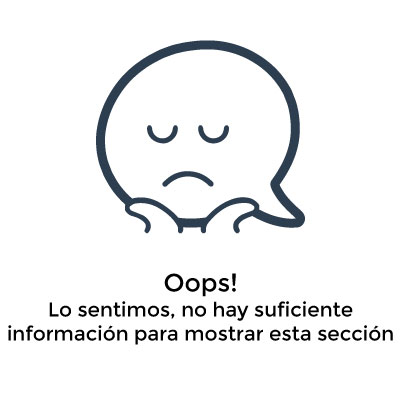
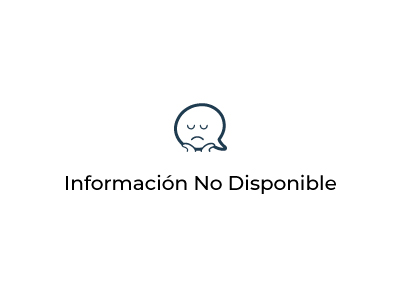
mejoras varias

Changed region(s): [[0.0, 0.09, 0.99, 0.87]]

diff --git a/reddebate/debate/templates/deb_cerrado.html b/reddebate/debate/templates/deb_cerrado.html
@@ -102,32 +102,38 @@
     </div>
     <div id="stats_div" >
        <img class="hidden" id="chartImg" />
+       {% if stats.total_position_num > 0 %}
        <h3>Estadísticas</h3>
        {% if stats.positions_by_day|length > 1 %}
           <div id="chart_div" style="width: 100%; height: 200px"></div>
        {% else %}
-          No se han registrado participaciones suficientes
+       <div class="no-data">
+         <i class="fa fa fa-frown-o" aria-hidden="true"></i><br>
+         Información no disponible
+       </div>
        {% endif %}
        <div class="row">
           <div class="col-sm-4">
-             {% if stats.total_position_num > 0 %}
-                <div id="piechart_postura"></div>
-             {% else %}
-                No se han registrado posturas
-             {% endif %}
+            <div id="piechart_postura"></div>
           </div>
           <div class="col-sm-4">
              {% if stats.total_arg_num > 0 %}
                 <div id="piechart_argumento"></div>
              {% else %}
-                No se han registrado argumentos
+             <div class="no-data">
+               <i class="fa fa fa-frown-o" aria-hidden="true"></i><br>
+               Información no disponible
+             </div>
              {% endif %}
           </div>
           <div class="col-sm-4">
              {% if stats.total_change_num > 0 %}
                 <div id="piechart_cambioPostura"></div>
              {% else %}
-                No se han registrado cambios de postura
+             <div class="no-data">
+               <i class="fa fa fa-frown-o" aria-hidden="true"></i><br>
+               Información no disponible
+             </div>
              {% endif %}
           </div>
        </div>
@@ -137,7 +143,10 @@
              {% if stats.total_change_num > 0 %}
                 <div id="chart_razonCambio"></div>
              {% else %}
-                No se han registrado cambios de postura
+             <div class="no-data">
+               <i class="fa fa fa-frown-o" aria-hidden="true"></i><br>
+               Información no disponible
+             </div>
              {% endif %}
           </div>
           <div class="col-sm-6">
@@ -204,6 +213,12 @@
              </div>
           </div>
        </div>
+       {% else %}
+       <div class="no-data">
+         <i class="fa fa fa-frown-o" aria-hidden="true"></i><br>
+         No hay registro de actividad en este debate
+       </div>
+       {% endif %}
     </div>
 </div> <!-- container debate -->
 </html>

diff --git a/reddebate/debate/templates/deb_privado.html b/reddebate/debate/templates/deb_privado.html
@@ -43,7 +43,10 @@
         {% if stats.positions_by_day|length > 1 %}
         <div id="chart_div" style="width: 100%; height: 200px"></div>
         {% else %}
-        <img class="data-img" src="{% static 'img/no_data_found_large.jpg' %}"/>
+        <div class="no-data">
+          <i class="fa fa fa-frown-o" aria-hidden="true"></i><br>
+          Información no disponible
+        </div>
         {% endif %}
       </div>
     </div>
@@ -80,14 +83,20 @@
        {% if stats.total_arg_num > 0 %}
         <div id="piechart_argumento"></div>
        {% else %}
-       <img class="data-img" src="{% static 'img/no_data_found.jpg' %}"/>
+       <div class="no-data">
+         <i class="fa fa fa-frown-o" aria-hidden="true"></i><br>
+         Información no disponible
+       </div>
        {% endif %}
        </div>
        <div class="col-sm-4">
        {% if stats.total_change_num > 0 %}
        <div id="piechart_cambioPostura"></div>
        {% else %}
-       <img class="data-img" src="{% static 'img/no_data_found.jpg' %}"/>
+       <div class="no-data">
+         <i class="fa fa fa-frown-o" aria-hidden="true"></i><br>
+         Información no disponible
+       </div>
        {% endif %}
        </div>
     </div>
@@ -97,12 +106,18 @@
         {% if stats.total_change_num > 0 %}
         <div id="chart_razonCambio"></div>
         {% else %}
-        <img class="data-img" src="{% static 'img/no_data_found.jpg' %}"/>
+        <div class="no-data">
+          <i class="fa fa fa-frown-o" aria-hidden="true"></i><br>
+          Información no disponible
+        </div>
         {% endif %}
       </div>
       <div class="col-sm-6">
         {% ifequal stats.best_argument 0 %}
-          <img class="data-img" src="{% static 'img/no_data_found.jpg' %}"/>
+        <div class="no-data">
+          <i class="fa fa fa-frown-o" aria-hidden="true"></i><br>
+          Información no disponible
+        </div>
         {% else %}
         <div class="datagrid1 stats_arg">
           <table id="table_best_arg{{stats.best_argument.position}}">
@@ -142,7 +157,10 @@
     </div>
     <br><br>
     {% else %}
-      <img class="data-img" src="{% static 'img/no_data_found.jpg' %}"/>
+    <div class="no-data">
+      <i class="fa fa fa-frown-o" aria-hidden="true"></i><br>
+      Información no disponible
+    </div>
     {% endif %}
   </div>
 </div>

diff --git a/reddebate/debate/templates/deb_creador.html b/reddebate/debate/templates/deb_creador.html
@@ -138,7 +138,12 @@
         {% if stats.positions_by_day|length > 1 %}
         <div id="chart_div" style="width: 100%; height: 200px"></div>
         {% else %}
-        <img class="data-img" src="{% static 'img/no_data_found_large.jpg' %}"/>
+        <div class="no-data">
+          <div class="no-data">
+            <i class="fa fa fa-frown-o" aria-hidden="true"></i><br>
+            Información no disponible
+          </div>
+        </div>
         {% endif %}
       </div>
     </div>
@@ -152,14 +157,20 @@
         {% if stats.total_arg_num > 0 %}
         <div id="piechart_argumento"></div>
         {% else %}
-        <img class="data-img" src="{% static 'img/no_data_found.jpg' %}"/>
+        <div class="no-data">
+          <i class="fa fa fa-frown-o" aria-hidden="true"></i><br>
+          Información no disponible
+        </div>
         {% endif %}
      </div>
      <div class="col-sm-4">
         {% if stats.total_change_num > 0 %}
         <div id="piechart_cambioPostura"></div>
         {% else %}
-        <img class="data-img" src="{% static 'img/no_data_found.jpg' %}"/>
+        <div class="no-data">
+          <i class="fa fa fa-frown-o" aria-hidden="true"></i><br>
+          Información no disponible
+        </div>
         {% endif %}
      </div>
      {% endif %}

diff --git a/reddebate/static/css/style.css b/reddebate/static/css/style.css
@@ -9,7 +9,7 @@
 body{
   text-align: justify;
   background-color: #f7f7f7;
-
+  font-family: "Montserrat", "Helvetica Neue", Helvetica, Arial, sans-serif;
 }
 textarea{
   resize: none;
@@ -2215,4 +2215,11 @@ hr {
 .data-img{
   width: 100%;
   height: auto;
+}
+.no-data{
+  font-family: "Montserrat", "Helvetica Neue", Helvetica, Arial, sans-serif;
+  text-align: center;
+  font-size: 17px;
+  margin-top: 100px;
+  margin-bottom: 30px;
 }

diff --git a/reddebate/reddebate/consumer.py b/reddebate/reddebate/consumer.py
@@ -60,8 +60,11 @@ def ws_receive(message):
 
                 n = PrivateMembers(id_user_id=message.user.id, id_debate_id=m.id_debate, type=m.owner_type)
                 n.save()
-                id_list = list(set(id_list)) #quito los id repetidos
-                Group(grupo).send({'text': json.dumps(n.as_dict(id_list))})
+                id_list = set(id_list) #quito los id repetidos
+                id_list_unique = []
+                for id in id_list:
+                    id_list_unique.append(id)
+                Group(grupo).send({'text': json.dumps(n.as_dict(id_list_unique))})
 
             elif data['members_type']=='2':
                 m.members_type = 1
